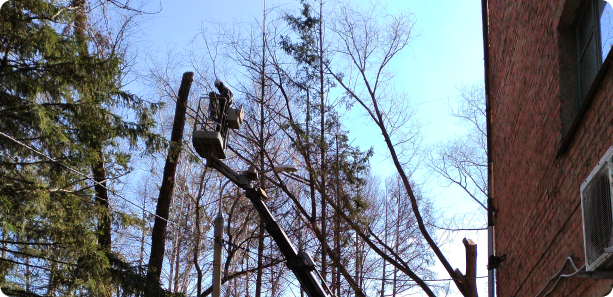
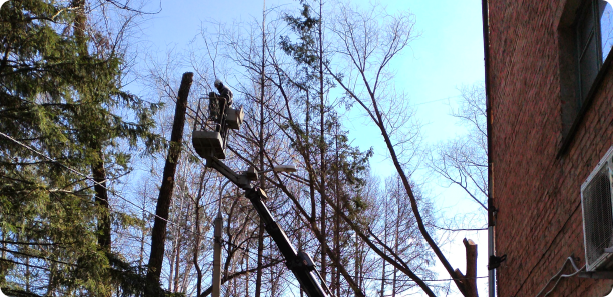
our_services_done

diff --git a/src/index.html b/src/index.html
@@ -66,51 +66,52 @@
         <div class="container">
           <span class="our-services__leaves-background"></span>
           <div class="our-services__title">Наши услуги</div>
-          <div class="our-services__row">
-            <ul class="our-services__name">
-              <li class="our-services__name__item">
-                <a href="#" class="our-services__name__link">Спил деревьев</a>
-                <span class="our-services__name__item_icon"></span>
-              </li>
-              <li class="our-services__name__item">
-                <a href="#" class="our-services__name__link"
-                  >Кронирование деревьев</a
-                >
-                <span class="our-services__name__item_icon"></span>
-              </li>
-              <li class="our-services__name__item">
-                <a href="#" class="our-services__name__link"
-                  >Обрезка кустарников</a
-                >
-                <span class="our-services__name__item_icon"></span>
-              </li>
-              <li class="our-services__name__item active">
-                <a href="#" class="our-services__name__link"
-                  >Вывоз порубочных остатков</a
-                >
-                <span class="our-services__name__item_icon"></span>
-              </li>
-            </ul>
-            <img
-              class="our-services__img img"
-              src="./img/product/udalenieDerevev.png"
-              alt="Спил деревьев"
-            />
-            <div class="our-services__text">
-              <div class="our-services__text__title">Спил деревьев</div>
-              <div class="our-services__text__body">
-                Оказываем услуги по спилу, валке деревьев под ключ любой
-                сложности. Для оценки Вашего объекта звоните по телефону или
-                пишите в WhatsApp
-              </div>
-              <div class="our-services__text__header">
-                <a href="#" class="btn our-services__text__order"
-                  >Заказать услугу</a
-                >
-                <a href="#" class="our-services__text__WhatsApp"
-                  >Написать в WhatsApp</a
-                >
-              </div>
+        </div>
+        <div class="our-services__row container">
+          <ul class="our-services__name">
+            <li class="our-services__name__item">
+              <a href="#" class="our-services__name__link">Спил деревьев</a>
+              <span class="our-services__name__item_icon"></span>
+            </li>
+            <li class="our-services__name__item">
+              <a href="#" class="our-services__name__link"
+                >Кронирование деревьев</a
+              >
+              <span class="our-services__name__item_icon"></span>
+            </li>
+            <li class="our-services__name__item">
+              <a href="#" class="our-services__name__link"
+                >Обрезка кустарников</a
+              >
+              <span class="our-services__name__item_icon"></span>
+            </li>
+            <li class="our-services__name__item active">
+              <a href="#" class="our-services__name__link"
+                >Вывоз порубочных остатков</a
+              >
+              <span class="our-services__name__item_icon"></span>
+            </li>
+          </ul>
+          <img
+            class="our-services__img img"
+            loading="lazy"
+            src="./img/product/udalenieDerevev.png"
+            alt="Спил деревьев"
+          />
+          <div class="our-services__text">
+            <div class="our-services__text__title">Спил деревьев</div>
+            <div class="our-services__text__body">
+              Оказываем услуги по спилу, валке деревьев под ключ любой
+              сложности. Для оценки Вашего объекта звоните по телефону или
+              пишите в WhatsApp
+            </div>
+            <div class="our-services__text__header">
+              <a href="#" class="btn our-services__text__order"
+                >Заказать услугу</a
+              >
+              <a href="#" class="our-services__text__WhatsApp"
+                >Написать в WhatsApp</a
+              >
             </div>
           </div>
         </div>
@@ -140,7 +141,7 @@
             </div>
             <div class="about__right">
               <img
-                src="./img/about__img.png"
+                src="./img/about__img.jpg"
                 alt="Человек пилит дерево"
                 class="about__img img"
               />
@@ -282,43 +283,67 @@
         </div>
         <div class="container-full gallery__row">
           <div class="gallery__item big">
-            <img class="gallery__item__img" src="./img/gallery/1.png" alt="" />
+            <img
+              class="gallery__item__img"
+              loading="lazy"
+              src="./img/gallery/1.jpg"
+              alt=""
+            />
           </div>
           <div class="gallery__item small">
-            <img class="gallery__item__img" src="./img/gallery/2.png" alt="" />
+            <img
+              class="gallery__item__img"
+              loading="lazy"
+              src="./img/gallery/2.jpg"
+              alt=""
+            />
           </div>
 
           <div class="gallery__item big">
-            <img class="gallery__item__img" src="./img/gallery/3.png" alt="" />
-          </div>
-          <div class="gallery__item small">
-            <img class="gallery__item__img" src="./img/gallery/4.png" alt="" />
+            <img
+              class="gallery__item__img"
+              loading="lazy"
+              src="./img/gallery/3.jpg"
+              alt=""
+            />
           </div>
           <div class="gallery__item small">
             <img
               class="gallery__item__img"
-              src="./img/gallery/2_1.png"
+              loading="lazy"
+              src="./img/gallery/4.jpg"
+              alt=""
+            />
+          </div>
+          <div class="gallery__item small">
+            <img
+              class="gallery__item__img"
+              loading="lazy"
+              src="./img/gallery/2_1.jpg"
               alt=""
             />
           </div>
           <div class="gallery__item big">
             <img
               class="gallery__item__img"
-              src="./img/gallery/2_2.png"
+              loading="lazy"
+              src="./img/gallery/2_2.jpg"
               alt=""
             />
           </div>
           <div class="gallery__item small">
             <img
               class="gallery__item__img"
-              src="./img/gallery/2_3.png"
+              loading="lazy"
+              src="./img/gallery/2_3.jpg"
               alt=""
             />
           </div>
           <div class="gallery__item big">
             <img
               class="gallery__item__img"
-              src="./img/gallery/2_4.png"
+              loading="lazy"
+              src="./img/gallery/2_4.jpg"
               alt=""
             />
           </div>
@@ -487,7 +512,7 @@
         <div class="contacts__map">
           <img
             class="img contacts__map_img"
-            src="./img/contacts/map.png"
+            src="./img/contacts/map.jpg"
             alt="карта"
           />
         </div>

diff --git a/src/scss/our-services.scss b/src/scss/our-services.scss
@@ -27,6 +27,8 @@
   top: -100px;
   text-shadow: 1px 1px 1px #e1e1e1;
   z-index: 1;
+  overflow: hidden;
+  max-width: 100%;
 }
 
 .our-services__title {
@@ -165,6 +167,103 @@
   height: 23px;
   padding-left: 14px;
 }
+
+@media (max-width: 1100px) {
+  .our-services__leaves-background {
+    display: none;
+  }
+  .our-services__img {
+    margin-right: 20px;
+    margin-left: 20px;
+    max-width: 280px;
+  }
+  .our-services__name {
+    min-width: 315px;
+  }
+  .our-services__text__body {
+    min-width: 229px;
+  }
+  .active .our-services__name__item_icon {
+    right: -32px;
+  }
+  .our-services__name__item_icon::before {
+    width: 15px;
+  }
+}
+@media (max-width: 920px) {
+  .our-services__name__link {
+    font-size: 14px;
+  }
+  .our-services__name {
+    min-width: 250px;
+  }
+}
+@media (max-width: 855px) {
+  .our-services__img {
+    max-width: 200px;
+  }
+  .our-services__name__item {
+    height: 45px;
+  }
+  .our-services__text__order {
+    padding: 0;
+    min-height: 40px;
+  }
+  .our-services__text__WhatsApp {
+    display: none;
+  }
+  .our-services__text__body {
+    min-width: 200px;
+  }
+  .our-services__text__header {
+    margin-top: 10px;
+  }
+  .active .our-services__name__item_icon {
+    top: 12px;
+  }
+  .our-services__text__title {
+    margin-bottom: 18px;
+    font-size: 18px;
+  }
+}
+@media (max-width: 750px) {
+  .our-services__img {
+    display: none;
+  }
+  .active .our-services__name__item_icon {
+    display: none;
+  }
+  .our-services__name {
+    min-width: 150px;
+    margin-right: 40px;
+  }
+  .our-services__name__item {
+  }
+  .our-services__name__link {
+    font-size: 12px;
+    padding: 3px;
+  }
+  .our-services__text__body {
+    min-width: 160px;
+    font-size: 10px;
+  }
+  .our-services__text__order {
+    font-size: 12px;
+    max-width: 130px;
+  }
+  .our-services__text {
+    flex: 0 1 auto;
+  }
+  .our-services__text__body {
+    flex: 0 1 auto;
+  }
+  .our-services__text__header {
+    display: flex;
+    flex-direction: row;
+    justify-content: flex-end;
+  }
+}
+
 @media (max-width: 400px) {
   .our-services::before {
     top: -40px;
@@ -181,6 +280,9 @@
   .our-services__row {
     flex-direction: column;
     background-color: #ffffff;
+    padding-left: 5px;
+    padding-right: 5px;
+    align-items: center;
   }
   .active {
     .our-services__name__item_icon {
@@ -192,11 +294,15 @@
     margin-left: 0;
     margin-top: 14px;
     margin-bottom: 15px;
+    max-width: 349px;
+    height: 203px;
+    object-fit: cover;
   }
   .our-services__text__order {
     position: absolute;
-    top: 550px;
-    left: 30px;
+    top: 410px;
+    left: 10.25vw;
+    margin: 0 auto;
   }
   .our-services__text__WhatsApp {
     display: none;

diff --git a/src/scss/header.scss b/src/scss/header.scss
@@ -154,7 +154,7 @@
   height: 100%;
   display: flex;
   align-items: center;
-  background-image: url("../img/buner_background.png");
+  background-image: url("../img/buner_background.jpg");
   background-position: center;
   background-repeat: no-repeat;
   background-size: cover;
@@ -254,6 +254,32 @@
   align-items: center;
 }
 
+@media (max-width: 1300px) {
+}
+@media (max-width: 1000px) {
+  .header__WhatsApp {
+    display: none;
+  }
+}
+@media (max-width: 700px) {
+  .header__location {
+    display: none;
+  }
+  .baner__titel {
+    font-size: 43px;
+  }
+}
+@media (max-width: 600px) {
+  .header__top {
+    display: none;
+  }
+  .header__nav {
+    display: none;
+  }
+  .header__top_mobile {
+    display: flex;
+  }
+}
 @media (max-width: 400px) {
   .header {
     width: 100%;

diff --git a/src/scss/contacts.scss b/src/scss/contacts.scss
@@ -16,7 +16,7 @@
 .contacts__body {
   position: relative;
   width: 45.2%;
-  background-image: url("../img/contacts/background.png");
+  background-image: url("../img/contacts/background.jpg");
   background-repeat: no-repeat;
   background-position: right;
   z-index: 1;

diff --git a/src/scss/style.scss b/src/scss/style.scss
@@ -27,6 +27,13 @@ body {
   font-size: 24px;
   font-weight: 500;
 }
+
+@media (max-width: 1300px) {
+  .container {
+    padding-left: 30px;
+    padding-right: 30px;
+  }
+}
 @media (max-width: 400px) {
   .container-full {
     max-width: 390px;
